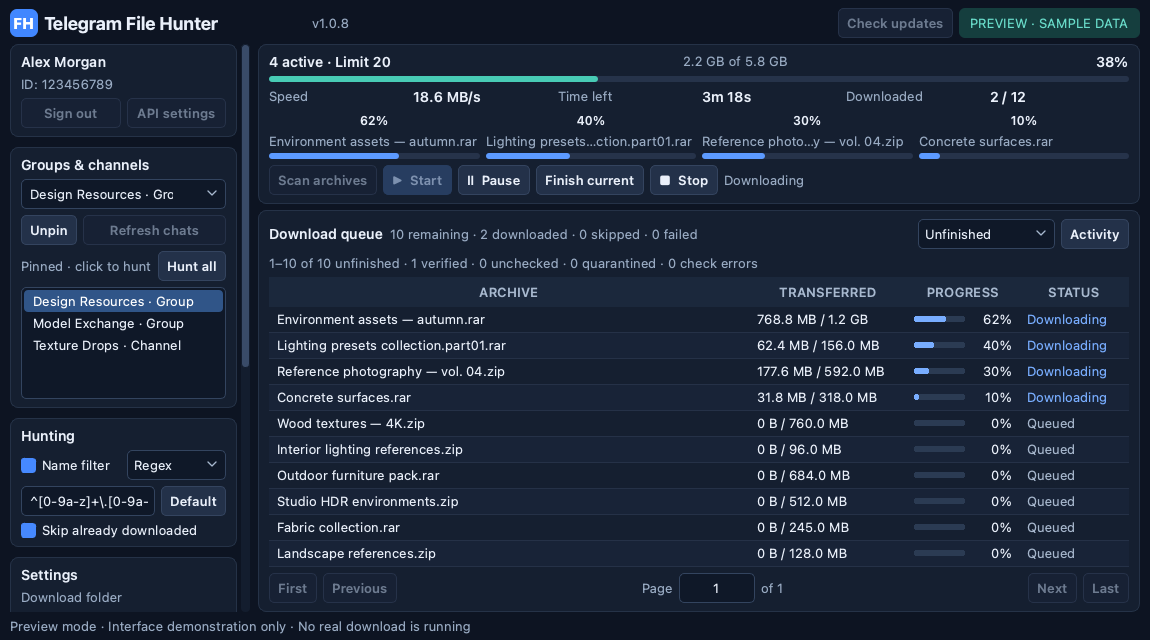
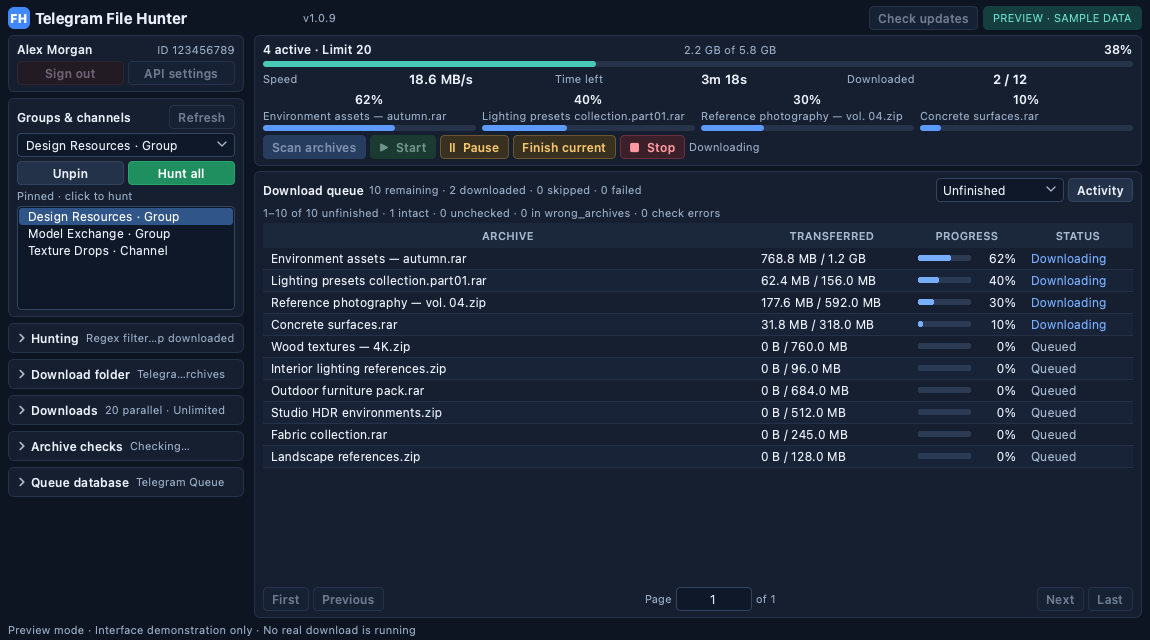
Release 1.0.9 with a compact interface, clean launch, ZIP backups and integrity statuses

diff --git a/tgzip/__init__.py b/tgzip/__init__.py
@@ -3,4 +3,4 @@
 # Resolve this standard-library lazy import before Qt loads its import hooks.
 # Python 3.15 otherwise exposes a lazy_import object to asyncio's default pool.
 from concurrent.futures import ThreadPoolExecutor as _ThreadPoolExecutor
-__version__ = "1.0.8"
+__version__ = "1.0.9"

diff --git a/docs/VALIDATION.md b/docs/VALIDATION.md
@@ -1,5 +1,16 @@
 # Validation and release limits
 
+## Patch release 1.0.9: compact interface, clean launch, ZIP backups, and integrity statuses — 23 October 2026
+
+- **Compact, foldable interface.** Smaller type and paddings (controls about 24 px, 22 px queue rows), the account ID on the name row, the Settings card split into Download folder and Downloads, and settings-like cards (Hunting, Download folder, Downloads, Archive checks, Queue database) folded by default with one-line summaries. Buttons are colour-coded by purpose, checkboxes draw a real check mark, and Archive checks shows a clear WinRAR found / not found badge. The window reopens at its last geometry with the same folded cards (`window.ini` in the data folder).
+- **Clean launch.** `Start.bat` closes leftover copies of this app and processes of the earlier downloader scripts before starting, except its own ancestors, dependency installation, pending updates and `--demo`, and logs each stop.
+- **ZIP backups.** Backup writes `backups/manual-<time>-<id>.zip` (integrity-checked queue plus settings, verified archive), keeping ten.
+- **Integrity statuses.** WinRAR's test already checks every member's CRC; the queue now labels Intact, Damaged, or Password, and confirmed failures move to `wrong_archives/damaged` or `wrong_archives/password`.
+
+Python **3.14.8** on macOS with portable PowerShell **7.6.7**: **238 tests**, 237 passed and one skipped (Windows DPAPI). New coverage: compact startup with folded cards, summaries and button roles; the drawn check mark; geometry and folded-card persistence (and that demo windows never write it); leftover-process selection with protected launcher ancestors, pip and pending-update guards; ZIP backup contents, verification and retention; damaged/password classification and folders; queue labels for old and new quarantined rows. Launcher tests fail against the 1.0.8 `Start.bat`. Compilation, the environment probe and whitespace checks passed. Offscreen previews were inspected at 1150×640 folded and expanded, 500×340, and the Settings window at 480×600 and 760×600; documentation previews were refreshed to v1.0.9.
+
+Real Windows rendering and process termination with Windows PowerShell 5.1, an actual WinRAR run, and restoring geometry on multi-monitor setups were not exercised.
+
 ## Patch release 1.0.8: Telegram File Hunter and import of files from the earlier scripts — 23 October 2026
 
 The application is renamed **Telegram File Hunter** (header, window title, logo, compact title, setup window, launcher messages, and the device name shown in Telegram). The application data folder, package name, repository, and update channel are unchanged, so settings, the queue, and the encrypted sign-in carry over.
